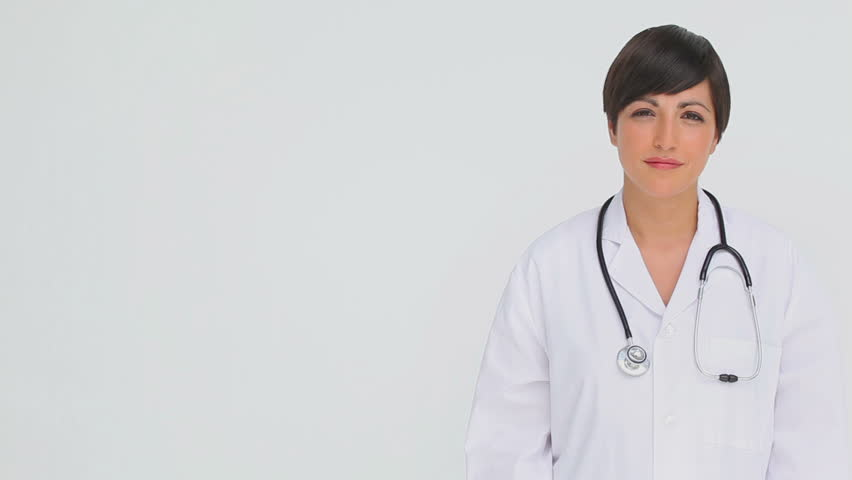
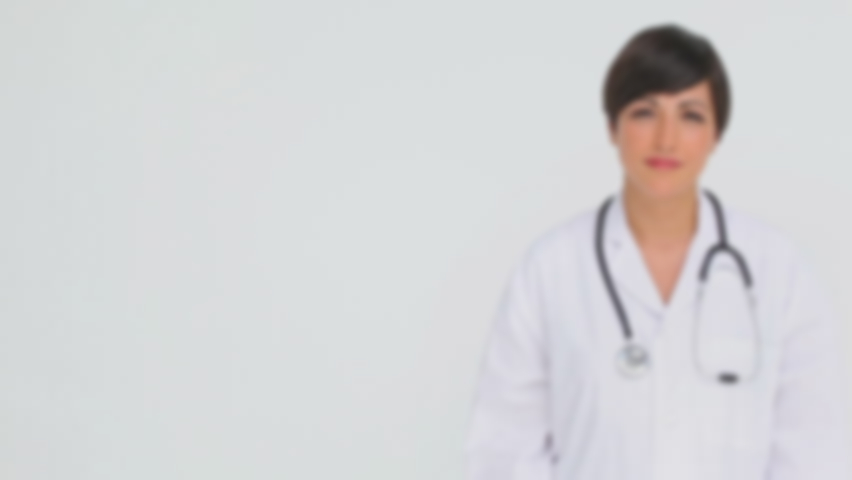
Improve Phone View

diff --git a/src/Components/Home/Home.js b/src/Components/Home/Home.js
@@ -35,15 +35,11 @@ class Home extends Component {
                 <Navbar fix="top" />
                 <br /><br />
                 <div className={style.v1}>
+                    <h1>Website Help You To Stay Fit</h1>
+                    <p>This Webiste Helps You To Find Hospitals Near<br/>
+                        You And Fix Your Appointment Remotely</p>
+                        <button className={style.listBtn}>Hospital List <MdArrowForward/></button>
                 </div>
-                <div className={style.v1Text}>
-                        <h1>Website Help You To Stay Fit</h1>
-                        <p>This Webiste Helps You To Find Hospitals Near You
-                            <br/>And Fix Your Appointment Remotely
-                        </p>
-                        <button className={style.listBtn} onClick={this.list}>Hospitals Lists <MdArrowForward size="23px"/></button>
-                </div>
-
                 {/* Hospital Card View */}
 
                 <div className={style.v2}>
@@ -88,7 +84,7 @@ class Home extends Component {
 
                 <div className={style.v3}>
                     <br/><br/>
-                    <h4><FaGithub size="35px"/> <a href="https://github.com/TANTRA-9/Stay_Fit.git" target = "_blank" 
+                    <h4><FaGithub size="35px"/><a href="https://github.com/TANTRA-9/Stay_Fit.git" target = "_blank" 
                     rel = "noopener noreferrer" style={{color:"white"}}>https://github.com/TANTRA-9/Stay_Fit.git</a>
                     </h4>
                     <h4><FaLinkedin size="35px"/> <a href="https://www.linkedin.com/in/nishant-tomar-aa2b3b184/"

diff --git a/src/Components/Home/Home.css b/src/Components/Home/Home.css
@@ -1,20 +1,19 @@
 .v1{
     background-image: url('./Images/hpHome.jpg');
     height: 637px;
-    filter: blur(3px);
-    -webkit-filter: blur(3px);
     background-position: center center;
     background-size: cover;
 }
 
-.v1Text{
+.v1 h1{
     color: black;
-    border: 3px none #f1f1f1;
-    position: absolute;
-    top: 50%;
-    left: 50%;
-    transform: translate(-110%,-25%);
-    text-align: center;
+    margin-left: 5%;
+    padding-top: 32vh;
+}
+
+.v1 p{
+    margin-left: 5%;
+    justify-content: center;
 }
 
 .listBtn{
@@ -32,6 +31,7 @@
     text-align: center;
     transition: all 0.2s;
     cursor: pointer;
+    margin-left: 5%;
 }
 
 .listBtn:hover{
@@ -72,6 +72,13 @@
 .v2 button:hover{
     color: #ffffff;
     background-color: #000000;
+}
+
+.v3{
+    background-color: #0c0c0c;
+    color: white;
+    text-align: center;
+    width: 100%;
 }
 
 .card {
@@ -146,8 +153,8 @@
     padding:10px;
 }
 
-.v3{
-    background-color: #0c0c0c;
-    color: white;
-    text-align: center;
+@media (max-width:370px){
+    .v3{
+        overflow-x: hidden;
+    }
 }
